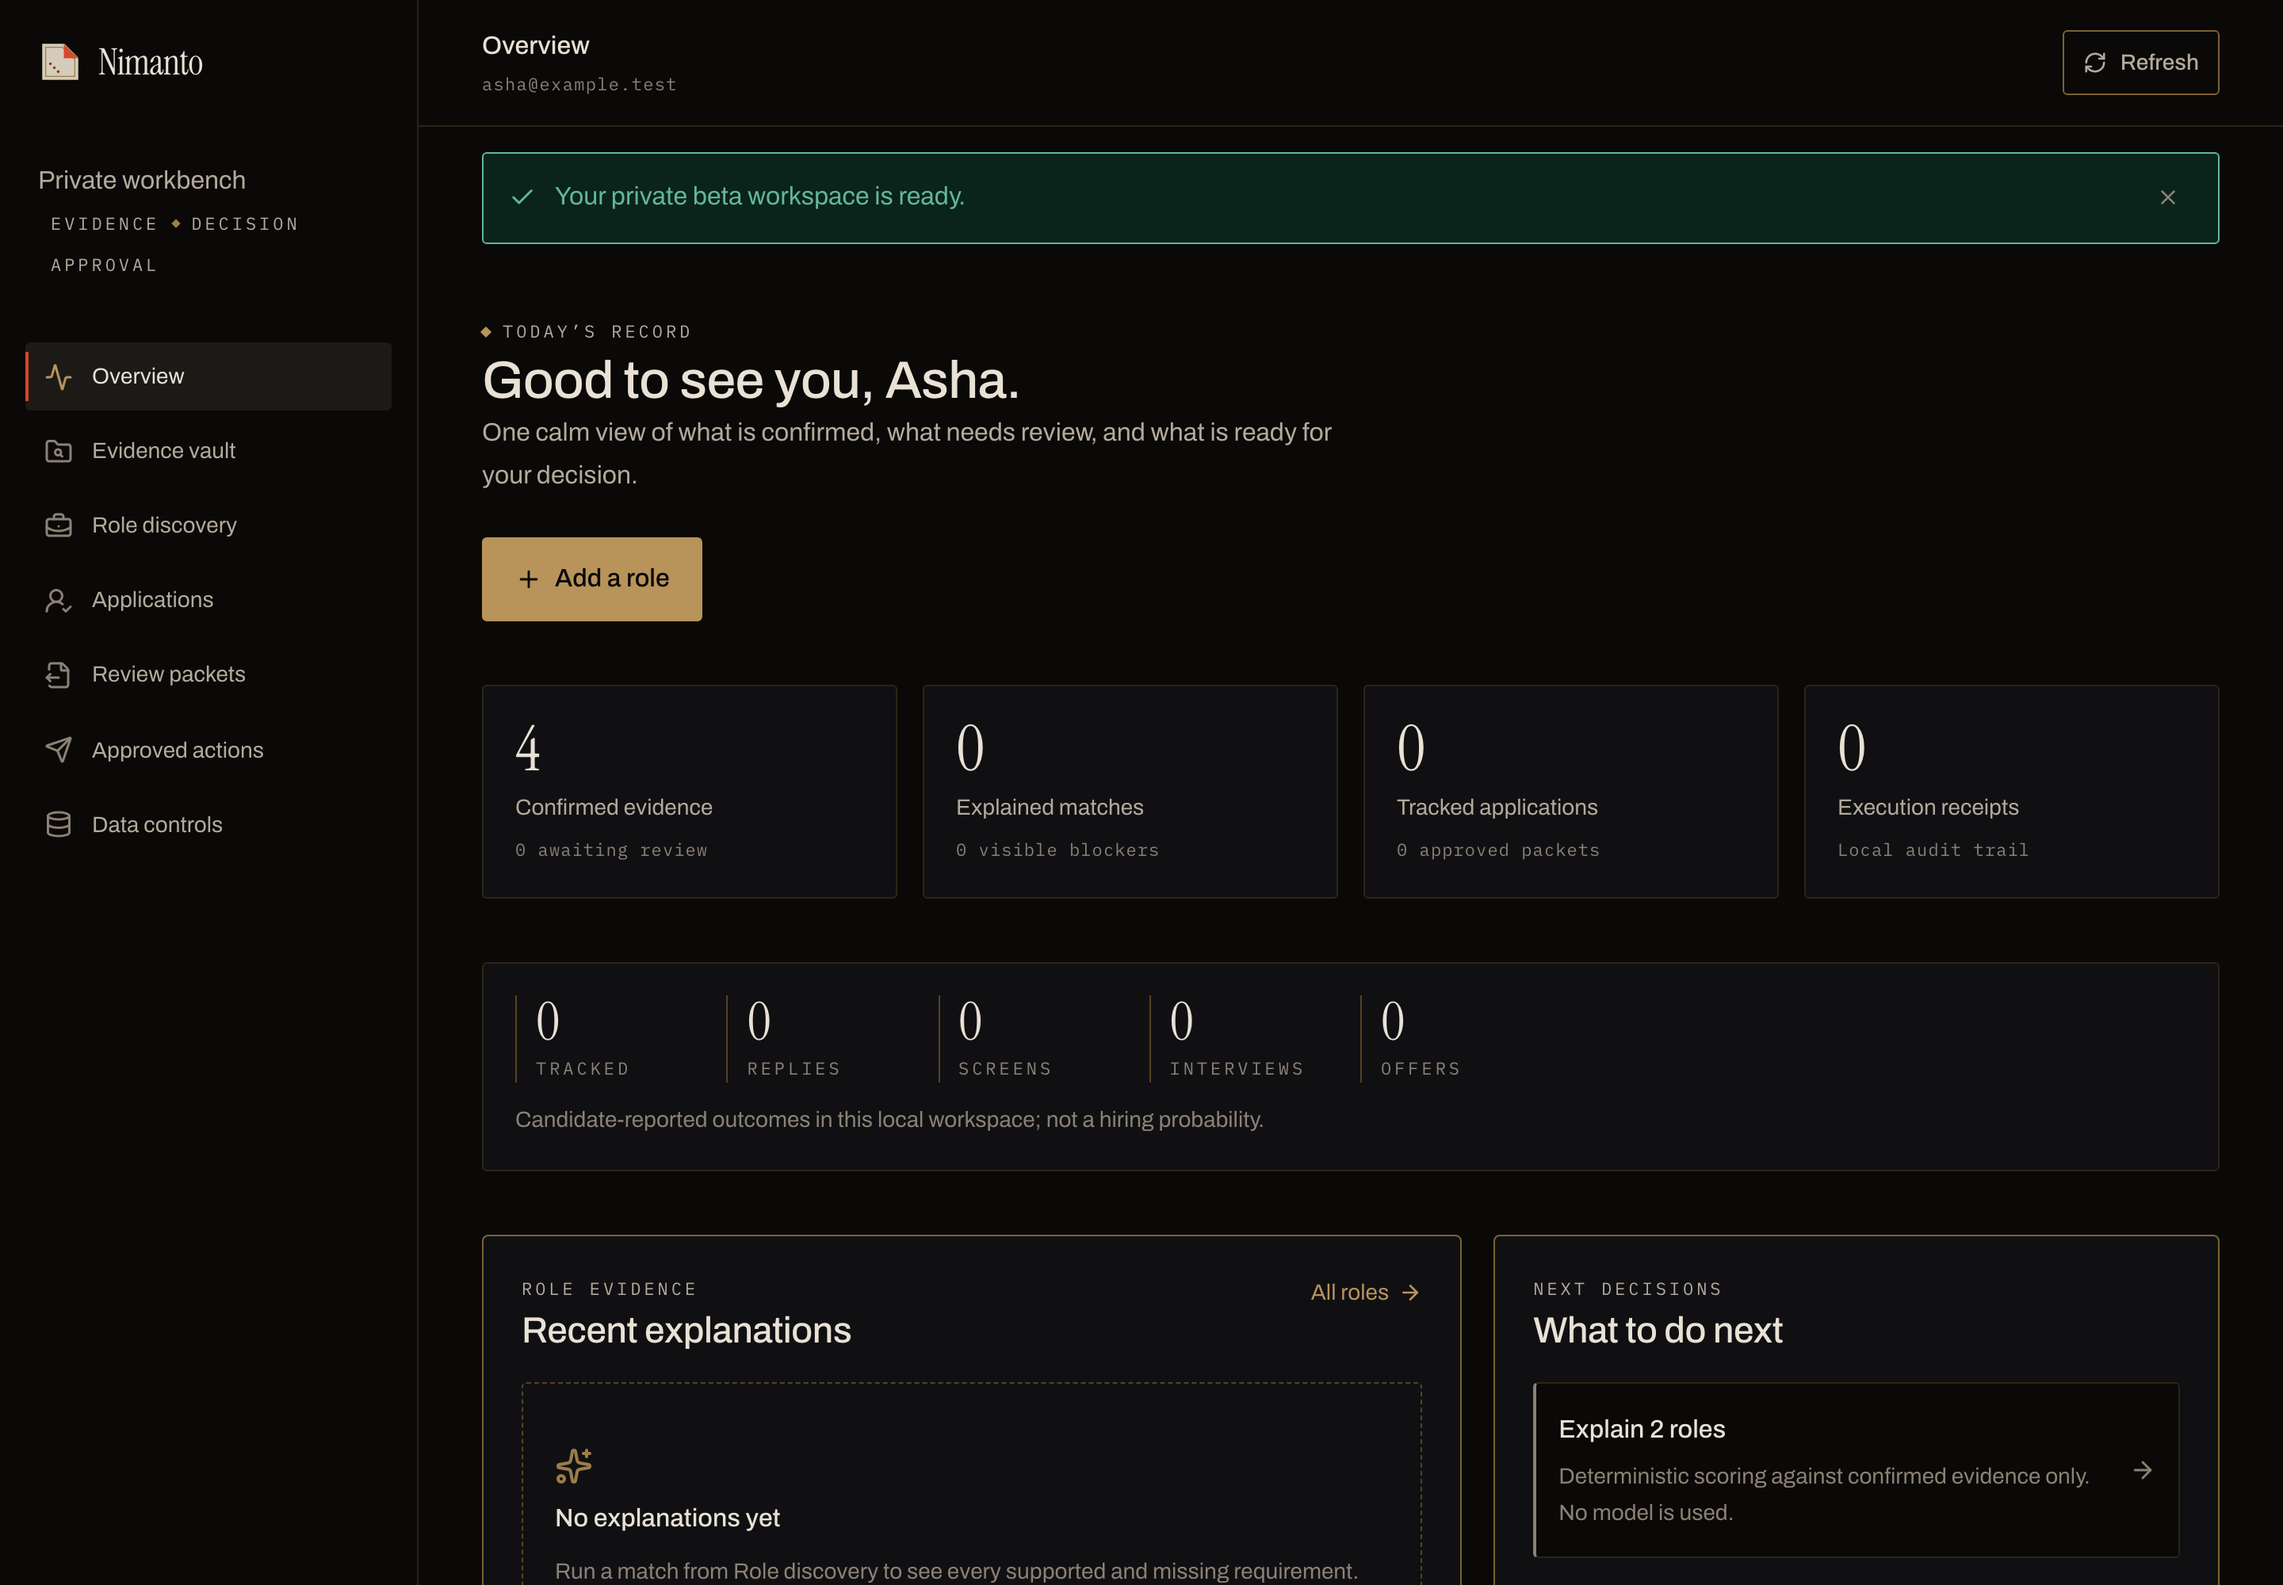
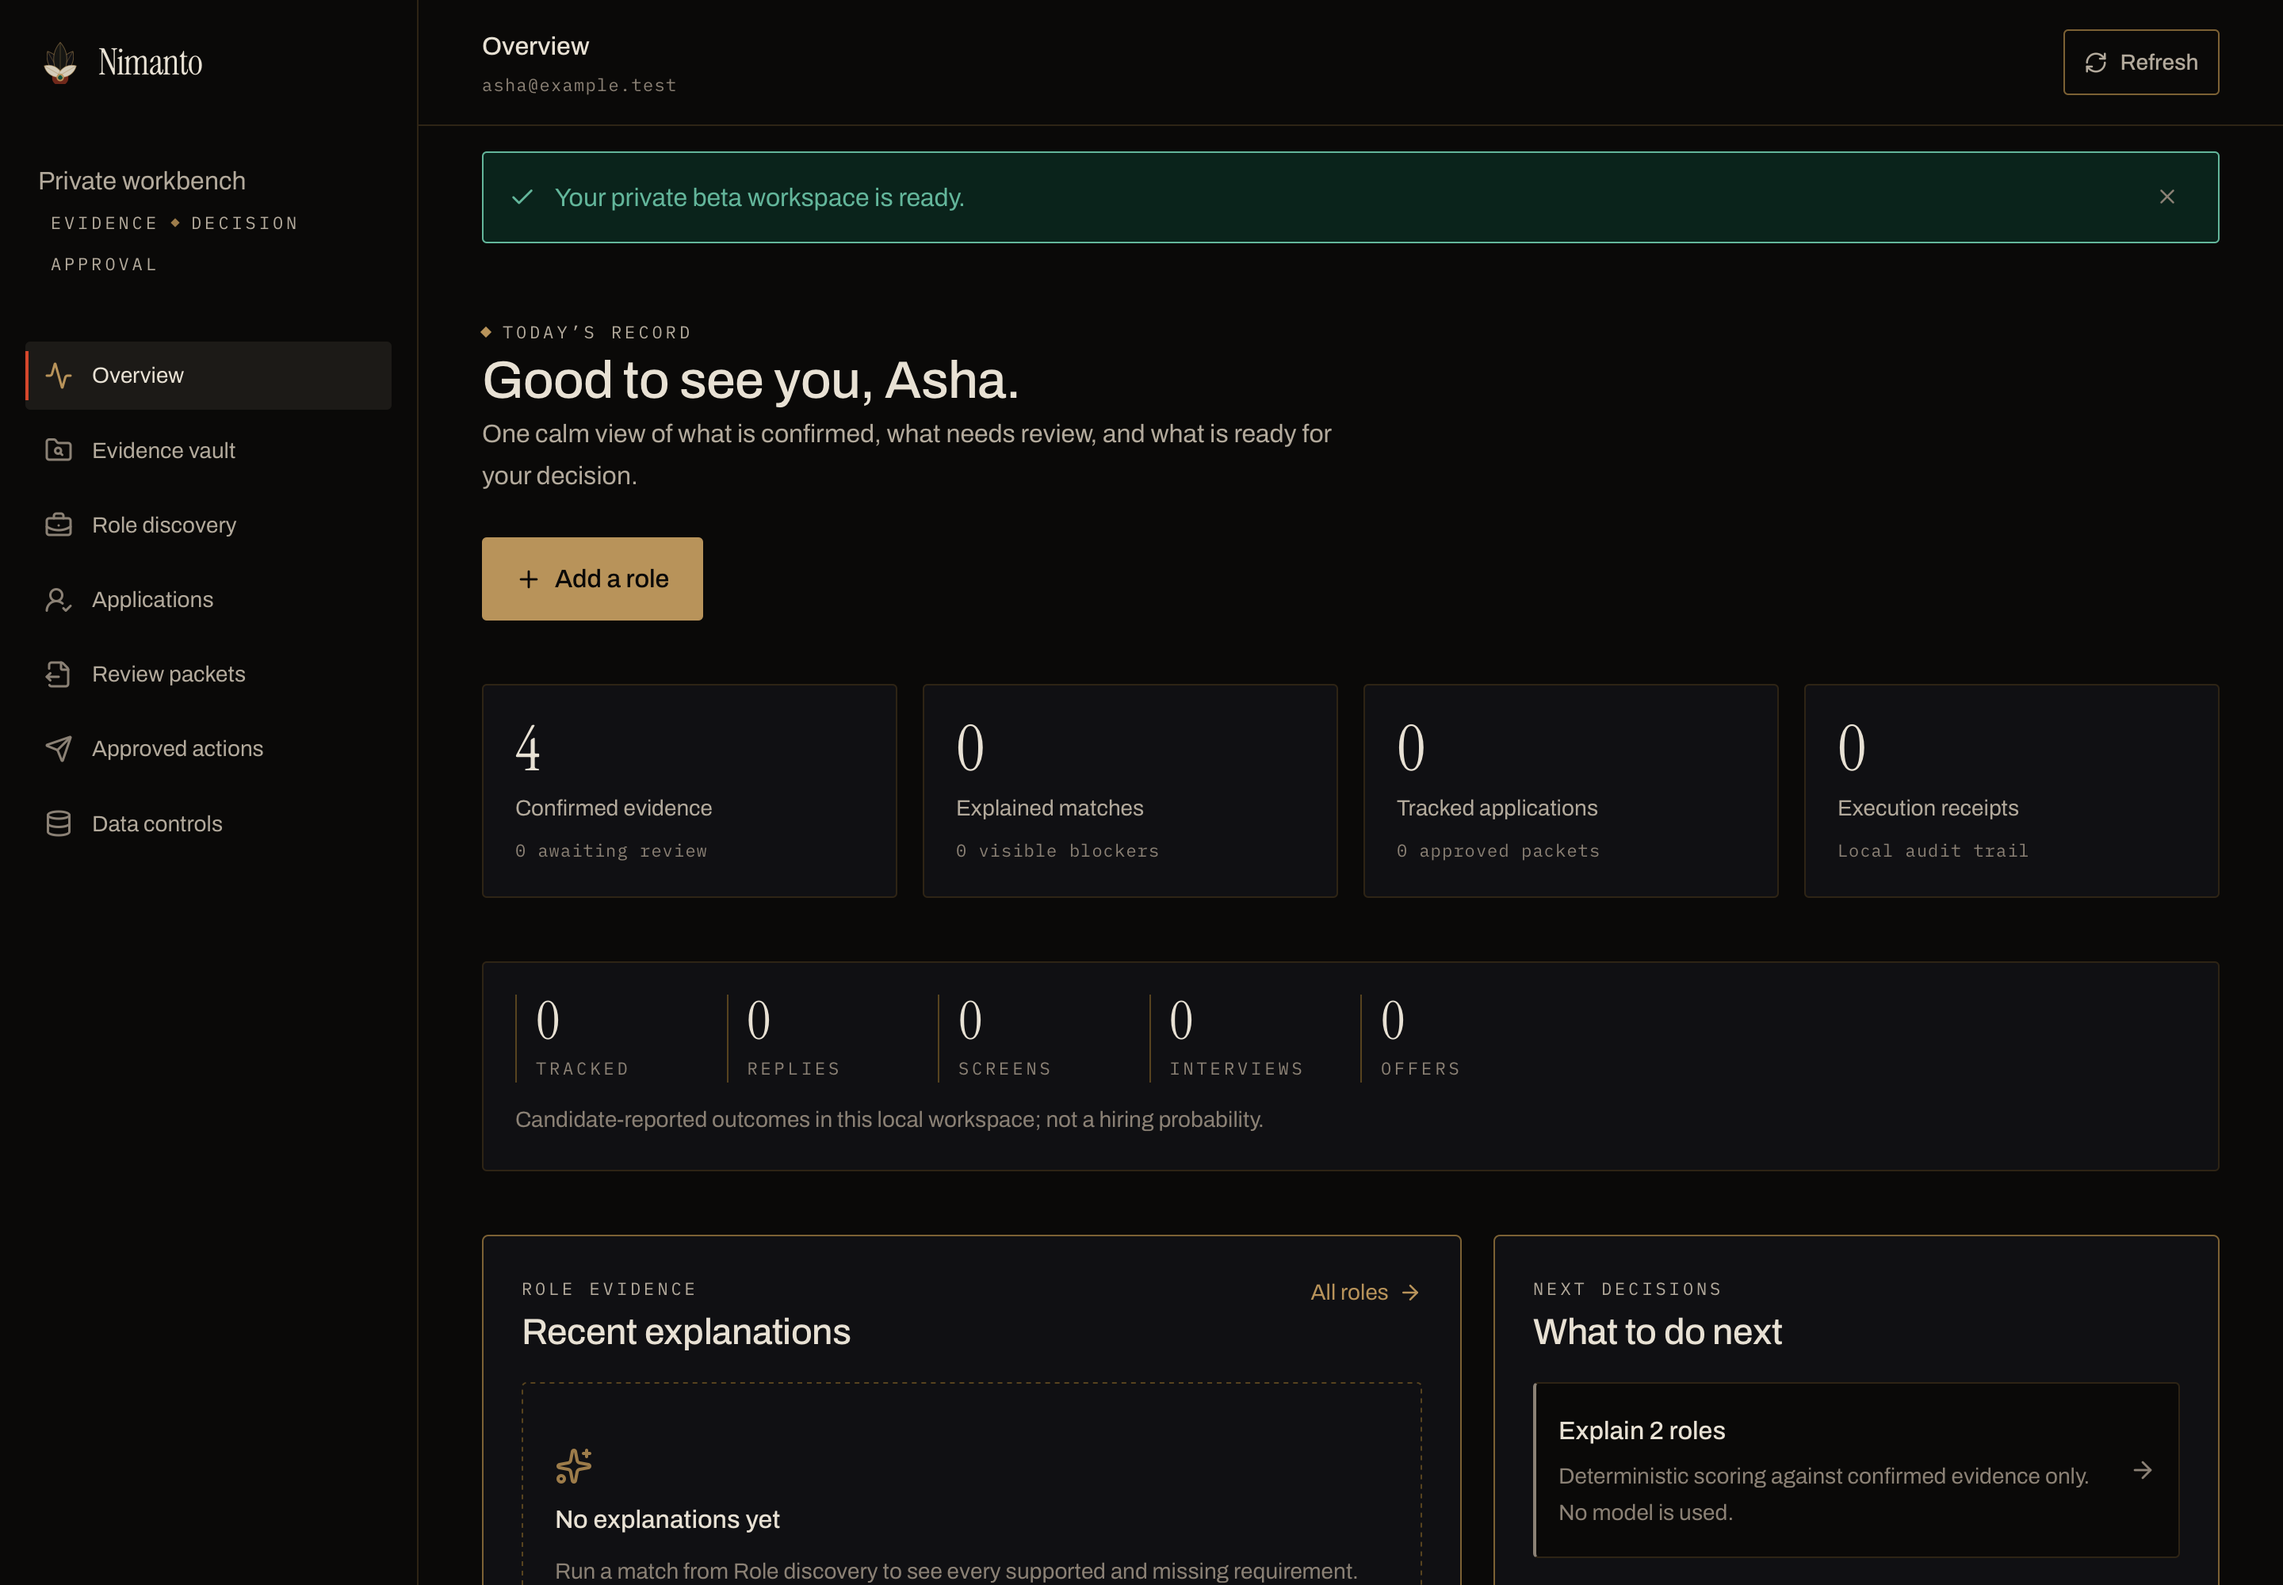
docs: sync README, operations guide and workbench screenshot with shipped behaviour
Follows 95b369f. Documentation stated some of this as intent before the code
did it, and one asset predated the current mark.

- The pipeline claim said moving an application into a consequential state
  "asks first". That was true of the board and not of the row list. It is now
  true of every status control, and the README says which.
- The operations guide told the candidate to "keep the returned seven-day
  status token" — which the interface never showed them. It now describes where
  the receipt appears, distinguishes the completed and cleanup-pending outcomes,
  and gives the status and resume commands. Both were run against a disposable
  workspace before being written down; the cleanup-pending branch is covered by
  an existing API test.
- Records the import preview listing claims, the requirement-to-evidence
  affordance and its provenance boundary, the Evidence Strength correction, the
  deletion receipt, and the self-checking connection indicator.
- Regenerates docs/assets/nimanto-workbench.png. The old capture still carried
  the pre-lotus mark; the replacement is the same framing, state and dimensions
  from the current build.

The website copy was reviewed and needed no change — nothing it claims was
affected. No version bump: this work is unreleased.

diff --git a/README.md b/README.md
@@ -131,10 +131,16 @@ issue a hashed, expiring, single-use invitation.
   archives, scans with no text layer, files over 8 MiB, and PDFs over 50 pages.
   Raw uploads are discarded after extraction.
 - Every extracted claim stays **pending** until you confirm it. Confirmation is
-  required before a claim can support a match or a packet.
+  required before a claim can support a match or a packet. The import preview
+  lists the exact claims a file would create before anything is stored.
 - Immutable profile versions carrying candidate-approved authorization wording.
 - Deterministic `scoring_rules_v1` matching across four documented dimensions,
   with sponsorship, citizenship, clearance and location blockers left visible.
+- An unmet requirement offers to add evidence for itself. Only the requirement
+  wording is carried into the claim form — never the posting's source name or
+  locator — and the claim it creates is pending and user-attested like any other.
+- Evidence Strength counts a requirement as source-linked only when a claim
+  behind it carries a source rather than your own attestation.
 - The free-text scoring projection removes pronouns, standalone year cues and a
   conventional name prefix. It is **not** comprehensive de-identification —
   sensitive identity details should not be imported as scoring evidence.
@@ -155,8 +161,9 @@ issue a hashed, expiring, single-use invitation.
   bound; the report also exposes recall, abstention, false positives and
   denominators.
 - A five-stage application pipeline with candidate-recorded replies, screens,
-  interviews, offers, rejections and withdrawals. Moving an application into a
-  consequential state asks first, and the transition is enforced server-side.
+  interviews, offers, rejections and withdrawals. Every status control — board
+  card or row list — offers only the moves the domain allows, asks before a
+  consequential one, and the transition is enforced server-side regardless.
 
 ### Grounded packets
 
@@ -257,6 +264,12 @@ Version `0.2.0` is a **local beta**:
 - Exports are portable workspace JSON with identity, provenance, hashes and
   artifact manifests. Generated packet files download separately. Local deletion
   removes tenant rows, packet artifacts, outbox messages and the session.
+- Deletion hands back a seven-day status token and says which outcome it
+  reached. If local file cleanup could not finish, it says so rather than
+  reporting success, and the token resumes it. The token is a bearer
+  capability — it reaches the status and resume routes without a session.
+- The workbench re-checks the local API on its own, so the connection indicator
+  cannot keep reporting "connected" after the service stops.
 
 Report a vulnerability through
 [GitHub private vulnerability reporting](https://github.com/udhawan97/Nimanto/security/advisories/new),

diff --git a/docs/operations/local-beta.md b/docs/operations/local-beta.md
@@ -75,7 +75,30 @@ Stop the API before copying `.nimanto-data/`. Restore by replacing the entire di
 
 ## Reset the synthetic workspace
 
-Use **Data controls → Delete all data**, type the exact confirmation phrase, and keep the returned seven-day status token. The deletion path removes database tenant rows, packet artifacts, local outbox files, and the session.
+Use **Data controls → Delete all data** and type the exact confirmation phrase. The deletion path removes database tenant rows, packet artifacts, local outbox files, and the session.
+
+Deletion signs you out, so the receipt appears on the sign-in screen that follows. It states which outcome was reached and shows a seven-day status token with a copy control. Keep the token: it is the only way to check or resume this deletion, and it works without a session, so treat it like a password.
+
+Two outcomes are possible, and the receipt distinguishes them:
+
+| Receipt                                                            | Meaning                                                                                 | What to do                   |
+| ------------------------------------------------------------------ | --------------------------------------------------------------------------------------- | ---------------------------- |
+| **Workspace deleted**                                              | Database records and local files are gone.                                              | Nothing.                     |
+| **Database records removed — local file cleanup is still pending** | Tenant rows and your session are gone; packet or outbox files could not be removed yet. | Resume with the token below. |
+
+```bash
+curl --fail-with-body --silent --show-error \
+  "http://127.0.0.1:4310/v1/deletion/status?token=YOUR_STATUS_TOKEN"
+```
+
+```bash
+curl --fail-with-body --silent --show-error \
+  -H "content-type: application/json" \
+  -d '{"token":"YOUR_STATUS_TOKEN"}' \
+  http://127.0.0.1:4310/v1/deletion/resume
+```
+
+Both routes are deliberately reachable without a session, because deletion has already removed yours.
 
 Starting a new local session after deletion creates a fresh labeled synthetic workspace.
 
